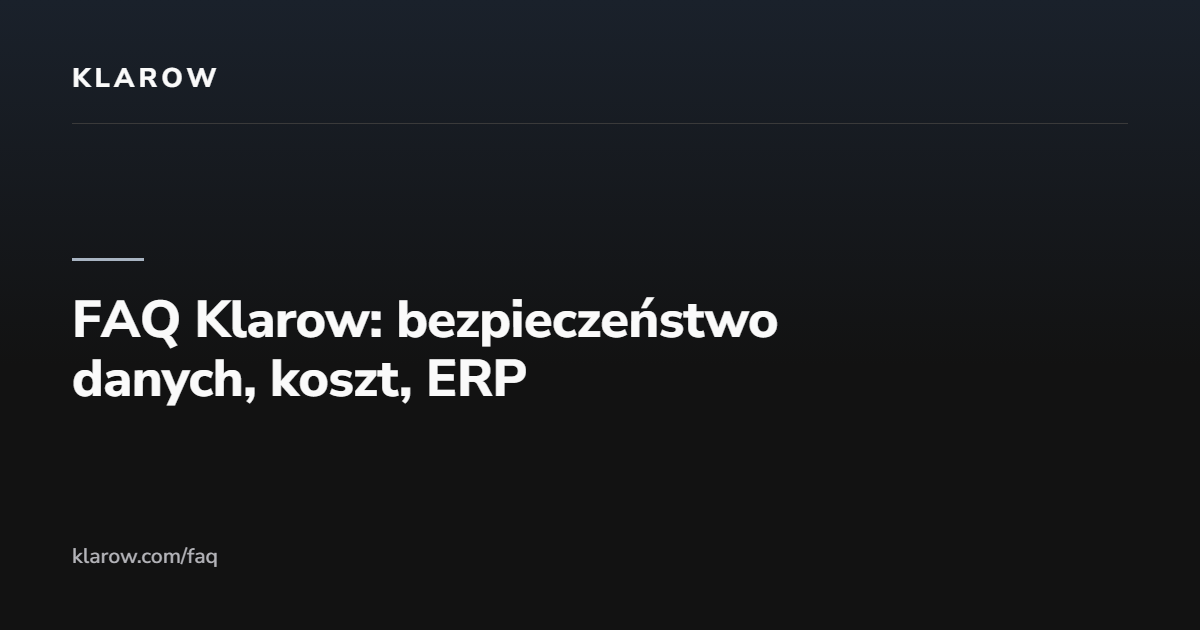
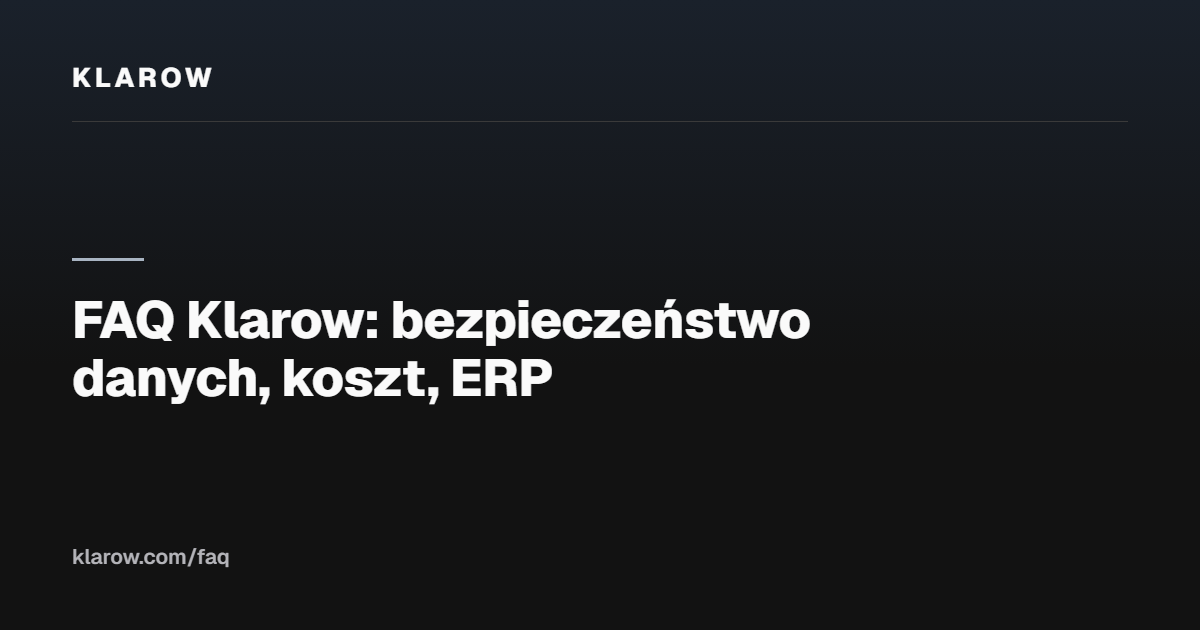
Marka: karty społecznościowe wreszcie używane, znacznik wersji roboczej zdjęty
KARTY OG BYŁY MARTWE. Dziewiętnaście kart 1200x630 leżało w public/og/ od dnia
powstania, a og:image wskazywał kwadratowe logo 512x512 - więc każdy link
wysłany na LinkedInie, Slacku czy w Teams pokazywał szary kwadrat zamiast
zaprojektowanej karty. Dla marki to jest najczęściej oglądany obraz firmy,
częściej niż sama strona.

Teraz każda trasa ma własną kartę, nazwa pliku wynika ze ścieżki (nowa trasa
dostanie kartę bez zmian w kodzie), brak pliku = brak tagu, a twitter:card
wreszcie summary_large_image, bo obraz naprawdę ma 1200x630. Ta sama logika
w prerenderze i w Seo.tsx, bo po nawigacji wewnątrz aplikacji prerender już nie
działa, a adres da się skopiować z paska na każdej podstronie.

Karty przegenerowane w Geist: generator wczytywał NunitoSans-*.woff2, czyli
pliki skasowane przy wymianie kroju. Skrypt kończyłby się wtedy błędem, ale
gdyby font tylko się rozjechał, karty renderowałyby się krojem systemowym przy
zielonym wyniku - stąd komentarz przy nazwach plików.

ZNACZNIK WERSJI ROBOCZEJ. Stopka na każdej trasie mówiła "strona robocza v0.8".
To jest zakazane wprost (design-hero-discipline wyklucza "BETA" i wersje,
brand-honest-labels każe etykietom opisywać rzecz, nie stan budowy), a firma,
która sama siebie podpisuje "robocza", nie wygląda na taką, której powierza się
dane finansowe.

ETYKIETA HUBA na decyzję D31, która nigdy nie weszła do kodu: "Przykłady
realizacji" -> "Narzędzia, które zbudowaliśmy". Płacących klientów jest zero,
[…]

diff --git a/site/src/App.tsx b/site/src/App.tsx
@@ -92,14 +92,19 @@ function Section({
 /* ── NARZĘDZIA (interaktywne dashboardy) ── */
 const TOOLS_TXT = {
   pl: {
-    title: "Przykłady realizacji: kliknij i sprawdź",
-    sub: "Próbki tego, co zbudowaliśmy. To nie jest pełna lista: Twoje narzędzie robimy pod Twój proces.",
-    proof: "Większość odpalisz na żywo; część to wdrożenia u klienta (np. KSeF). Dane fikcyjne.",
+    /* ETYKIETA POPRAWIONA 2026-09-17 na decyzję D31, która nigdy nie weszła
+       do kodu. „Realizacja" w polszczyźnie biznesowej znaczy „zlecenie wykonane
+       dla klienta", a płacących klientów jest zero: to nadinterpretacja
+       na granicy `brand-honest-labels`. Trzy linijki objaśnień zeszły do jednej,
+       bo reszta i tak powtarzała to, co widać na kaflach niżej. */
+    title: "Narzędzia, które zbudowaliśmy",
+    sub: "Nie mamy zamkniętego katalogu. Budujemy pod proces.",
+    proof: "",
   },
   en: {
-    title: "Examples of what we've built: click and try",
-    sub: "Samples of what we've built. Not a full list: we build your tool around your process.",
-    proof: "Most run live; some are client deployments (e.g. KSeF). Fictional data.",
+    title: "Tools we have built",
+    sub: "We have no fixed catalogue. We build around the process.",
+    proof: "",
   },
 };
 
@@ -108,12 +113,18 @@ function Tools() {
   const t = pick(lang, TOOLS_TXT);
   return (
     <Section as="h1" title={t.title} sub={t.sub}>
-      <p
-        className="mb-6 max-w-3xl text-[13px] leading-relaxed -mt-3"
-        style={{ color: "var(--accent-foreground)" }}
-      >
-        {t.proof}
-      </p>
+      {/* Trzecia linijka objaśnień renderuje się tylko wtedy, gdy istnieje.
+          Pusty `<p>` zostawiałby po sobie margines, czyli dziurę w układzie
+          bez treści — a przy cięciu tekstu to właśnie takie resztki najłatwiej
+          przeoczyć. */}
+      {t.proof ? (
+        <p
+          className="mb-6 max-w-3xl text-[13px] leading-relaxed -mt-3"
+          style={{ color: "var(--accent-foreground)" }}
+        >
+          {t.proof}
+        </p>
+      ) : null}
       <ToolsGrid />
     </Section>
   );
@@ -349,8 +360,14 @@ function FaqSection() {
 
 /* ── STOPKA ── */
 const FOOT = {
-  pl: { tagline: "Automatyzacja i porządek w danych dla MŚP · Polska / USA", note: "© 2026 Klarow · strona robocza v0.8" },
-  en: { tagline: "Automation and order in SME data · Poland / USA", note: "© 2026 Klarow · working draft v0.8" },
+  /* NOTA BEZ NUMERU WERSJI (2026-09-17). Było „strona robocza v0.8".
+     Numer wersji w stopce mówi odwiedzającemu, że patrzy na coś niegotowego,
+     i jest zakazany wprost: `design-hero-discipline` wyklucza znaczniki „BETA"
+     i wersji, a `brand-honest-labels` każe etykietom opisywać rzecz, nie stan
+     jej budowy. Firma, która sama siebie podpisuje „robocza", nie wygląda na
+     taką, której można powierzyć dane finansowe. */
+  pl: { tagline: "Automatyzacja i porządek w danych dla MŚP · Polska / USA", note: "© 2026 Klarow · Polska / USA" },
+  en: { tagline: "Automation and order in SME data · Poland / USA", note: "© 2026 Klarow · Poland / USA" },
 };
 
 /* Link „RODO i prywatność” stoi w stopce na KAŻDEJ trasie: to adres klauzuli

diff --git a/site/src/prerender/entry.tsx b/site/src/prerender/entry.tsx
@@ -209,16 +209,24 @@ function ToolsShell({ pl, en }: { pl: ToolItem[]; en: ToolItem[] }) {
   return (
     <ShellChrome>
       <ShellNav />
+      {/* Nagłówek i lead muszą zgadzać się ZNAK W ZNAK z `TOOLS_TXT` w `App.tsx`,
+          bo shell i klient renderują tę samą trasę. Etykieta „Realizacje" zeszła
+          2026-09-17 na decyzję D31: klientów płacących jest zero, więc słowo
+          „realizacja" (zlecenie wykonane dla klienta) było nadinterpretacją
+          na granicy `brand-honest-labels`.
+
+          Akapit o poprzedniej firmie zdjęty razem z nim. Opisywał ekosystem
+          kilkunastu narzędzi i liczby z projektów, których NIE WOLNO publikować
+          przed umową IP (CLAUDE.md zasada #3) — a „~30 równoległych projektów"
+          i „~10 000 wierszy miesięcznie" to dokładnie takie liczby, nawet bez
+          nazwy firmy. Nie miały też pokrycia w rejestrze dozwolonych liczb. */}
       <h1 className="mt-4 text-4xl font-extrabold tracking-tight" style={HEAD}>
-        Przykłady realizacji: dema i wdrożenia
+        Narzędzia, które zbudowaliśmy
       </h1>
       <p className="mt-4 max-w-3xl text-sm" style={MUTED}>
-        To nie pełna lista usług, tylko próbki tego, co już zbudowaliśmy. Większość odpalisz na
-        żywo na danych przykładowych (bez logowania); część to realne wdrożenia u klienta, jak
-        kontroling na danych z KSeF. Twoje narzędzie budujemy pod Twój proces. Wcześniej
-        zbudowaliśmy od środka ekosystem kilkunastu narzędzi dla firmy produkcyjno-budowlanej
-        (~30 równoległych projektów, klienci w USA): ~10 000 wierszy kosztów z ERP miesięcznie,
-        raport zarządczy w kilkanaście sekund i kontrola sum co do grosza.
+        Nie mamy zamkniętego katalogu. Budujemy pod proces. Poniżej narzędzia
+        w pięciu działach; dwanaście z nich liczy na żywo w przeglądarce, na danych
+        przykładowych i bez logowania.
       </p>
       {DEPTS.map((d) => (
         <section key={d.key}>

diff --git a/site/index.html b/site/index.html
@@ -20,7 +20,14 @@
       content="Narzędzia pod Twój proces. Działają w dni, dane zostają u Ciebie. Kontroling, integracje (KSeF), importy z ERP, obieg dokumentów, panele."
     />
     <meta property="og:url" content="https://klarow.com/" />
-    <meta property="og:image" content="https://klarow.com/klarow-logo-512.png" />
+    <!-- Karta 1200×630 zamiast kwadratowego logo (2026-09-17). Ten tag jest
+         wartością DOMYŚLNĄ dla trasy „/” w trybie dev i awaryjną, gdy prerender
+         nie znajdzie pliku karty; na zbudowanych stronach prerender podmienia go
+         na kartę właściwą dla trasy (scripts/prerender.mjs, ogImageTag).
+         Generator kart: scripts/og.mjs, wynik w public/og/. -->
+    <meta property="og:image" content="https://klarow.com/og/home.png" />
+    <meta property="og:image:width" content="1200" />
+    <meta property="og:image:height" content="630" />
     <link rel="canonical" href="https://klarow.com/" />
     <!-- ?v=2: przeglądarki agresywnie cache'ują favicony; buster wymusza świeżą ikonę -->
     <link rel="icon" href="/favicon.ico?v=2" sizes="16x16 32x32 48x48" />

diff --git a/site/src/components/Seo.tsx b/site/src/components/Seo.tsx
@@ -78,7 +78,17 @@ export default function Seo({
     setMeta("property", "og:site_name", ORG_NAME);
     setMeta("property", "og:locale", "pl_PL");
     setMeta("property", "og:locale:alternate", "en_US");
-    setMeta("name", "twitter:card", "summary");
+    /* KARTA SPOŁECZNOŚCIOWA PER TRASA. Ta sama logika co w `scripts/prerender.mjs`
+       (funkcja `ogImageTag`), bo po nawigacji wewnątrz aplikacji prerender już
+       nie działa, a użytkownik może skopiować adres z paska z dowolnej podstrony.
+       Klucz wynika ze ścieżki: „/” → home, „/narzedzia/<slug>" → <slug>. */
+    const ogKey = path === "/" ? "home" : path.split("/").filter(Boolean).pop();
+    const ogUrl = `${ORIGIN}/og/${ogKey}.png`;
+    setMeta("property", "og:image", ogUrl);
+    setMeta("property", "og:image:width", "1200");
+    setMeta("property", "og:image:height", "630");
+    setMeta("name", "twitter:image", ogUrl);
+    setMeta("name", "twitter:card", "summary_large_image");
     setMeta("name", "twitter:title", title);
     setMeta("name", "twitter:description", description);
 

diff --git a/.claude/skills/klarow-guardian/references/allowed-numbers.md b/.claude/skills/klarow-guardian/references/allowed-numbers.md
@@ -55,11 +55,11 @@
 
 | Liczba | Sformułowanie | Gdzie jest dziś | Status |
 |---|---|---|---|
-| „kilkanaście" | „kilkanaście narzędzi w jednej firmie produkcyjno-budowlanej" | dziś `App.tsx:240` (pasek, **kasowany razem z paskiem w v2**), `faq.ts:41` | ZAMROŻONE; po v2 zostaje **wyłącznie w `faq.ts`**; „15" dopiero po umowie IP i potwierdzeniu (D7) |
-| ≈ 10 000 wierszy / „~10 tys." | „wierszy kosztów z ERP miesięcznie" | `App.tsx:241`, `entry.tsx:135, 206`, `toolsSeo.ts:474`, `faq.ts:41` | ZAMROŻONE; z `/` usunąć w v2 (pasek liczb = tylko liczby własne) |
-| ~30 | „równoległych projektów" | `entry.tsx:135, 206`, `toolsSeo.ts:36, 60, 86, 110, 136` | ZAMROŻONE (opisy podstron) |
-| „kilkanaście sekund zamiast godzin" (galeria: „z ~6 godz.") | czas raportu zarządczego | `entry.tsx:136, 207`, `toolsSeo.ts:19, 24, 36`, `faq.ts:41` | ZAMROŻONE |
-| „klienci w USA" | rynek poprzedniej firmy | `entry.tsx:135, 206` | ZAMROŻONE; nie mylić z klientami Klarow (`brand-honest-labels`) |
+| „kilkanaście" | „kilkanaście narzędzi w jednej firmie produkcyjno-budowlanej" | **wyłącznie `faq.ts:41`** (pasek liczb skasowany zgodnie z D30) | ZAMROŻONE; po v2 zostaje **wyłącznie w `faq.ts`**; „15" dopiero po umowie IP i potwierdzeniu (D7) |
+| ≈ 10 000 wierszy / „~10 tys." | „wierszy kosztów z ERP miesięcznie" | `toolsSeo.ts:474`, `faq.ts:41` | ZAMROŻONE; **ZDJĘTE z `/` i z `/narzedzia` 2026-09-17** (shelle `HomeShell` i `ToolsShell` w `entry.tsx`) |
+| ~30 | „równoległych projektów" | `toolsSeo.ts:36, 60, 86, 110, 136` | ZAMROŻONE (opisy podstron); **ZDJĘTE z shelli `/` i `/narzedzia` 2026-09-17** |
+| „kilkanaście sekund zamiast godzin" (galeria: „z ~6 godz.") | czas raportu zarządczego | `toolsSeo.ts:19, 24, 36`, `faq.ts:41` | ZAMROŻONE; **ZDJĘTE z shelli 2026-09-17** |
+| „klienci w USA" | rynek poprzedniej firmy | **nigdzie w `site/src` po 2026-09-17** | ZAMROŻONE; nie mylić z klientami Klarow (`brand-honest-labels`) |
 | „mniej niż dwa miesięczne koszty etatu kontrolera"; „moduł raportowy ERP 6+ miesięcy i od 100 tys. zł" | kotwice porównawcze w FAQ (nie cennik) | `faq.ts:16` | ZAMROŻONE (kotwica, nie kwota usługi) |
 | API KSeF 2.0, FA(3), prognoza 13 tyg., raporty XLSX, Flask + SQLite + React | fakty techniczne własnego produktu | `tools.ts:640–644`, `toolsSeo.ts:615–663` | OK (własny produkt; bez nazwy produktu i domeny) |
 
